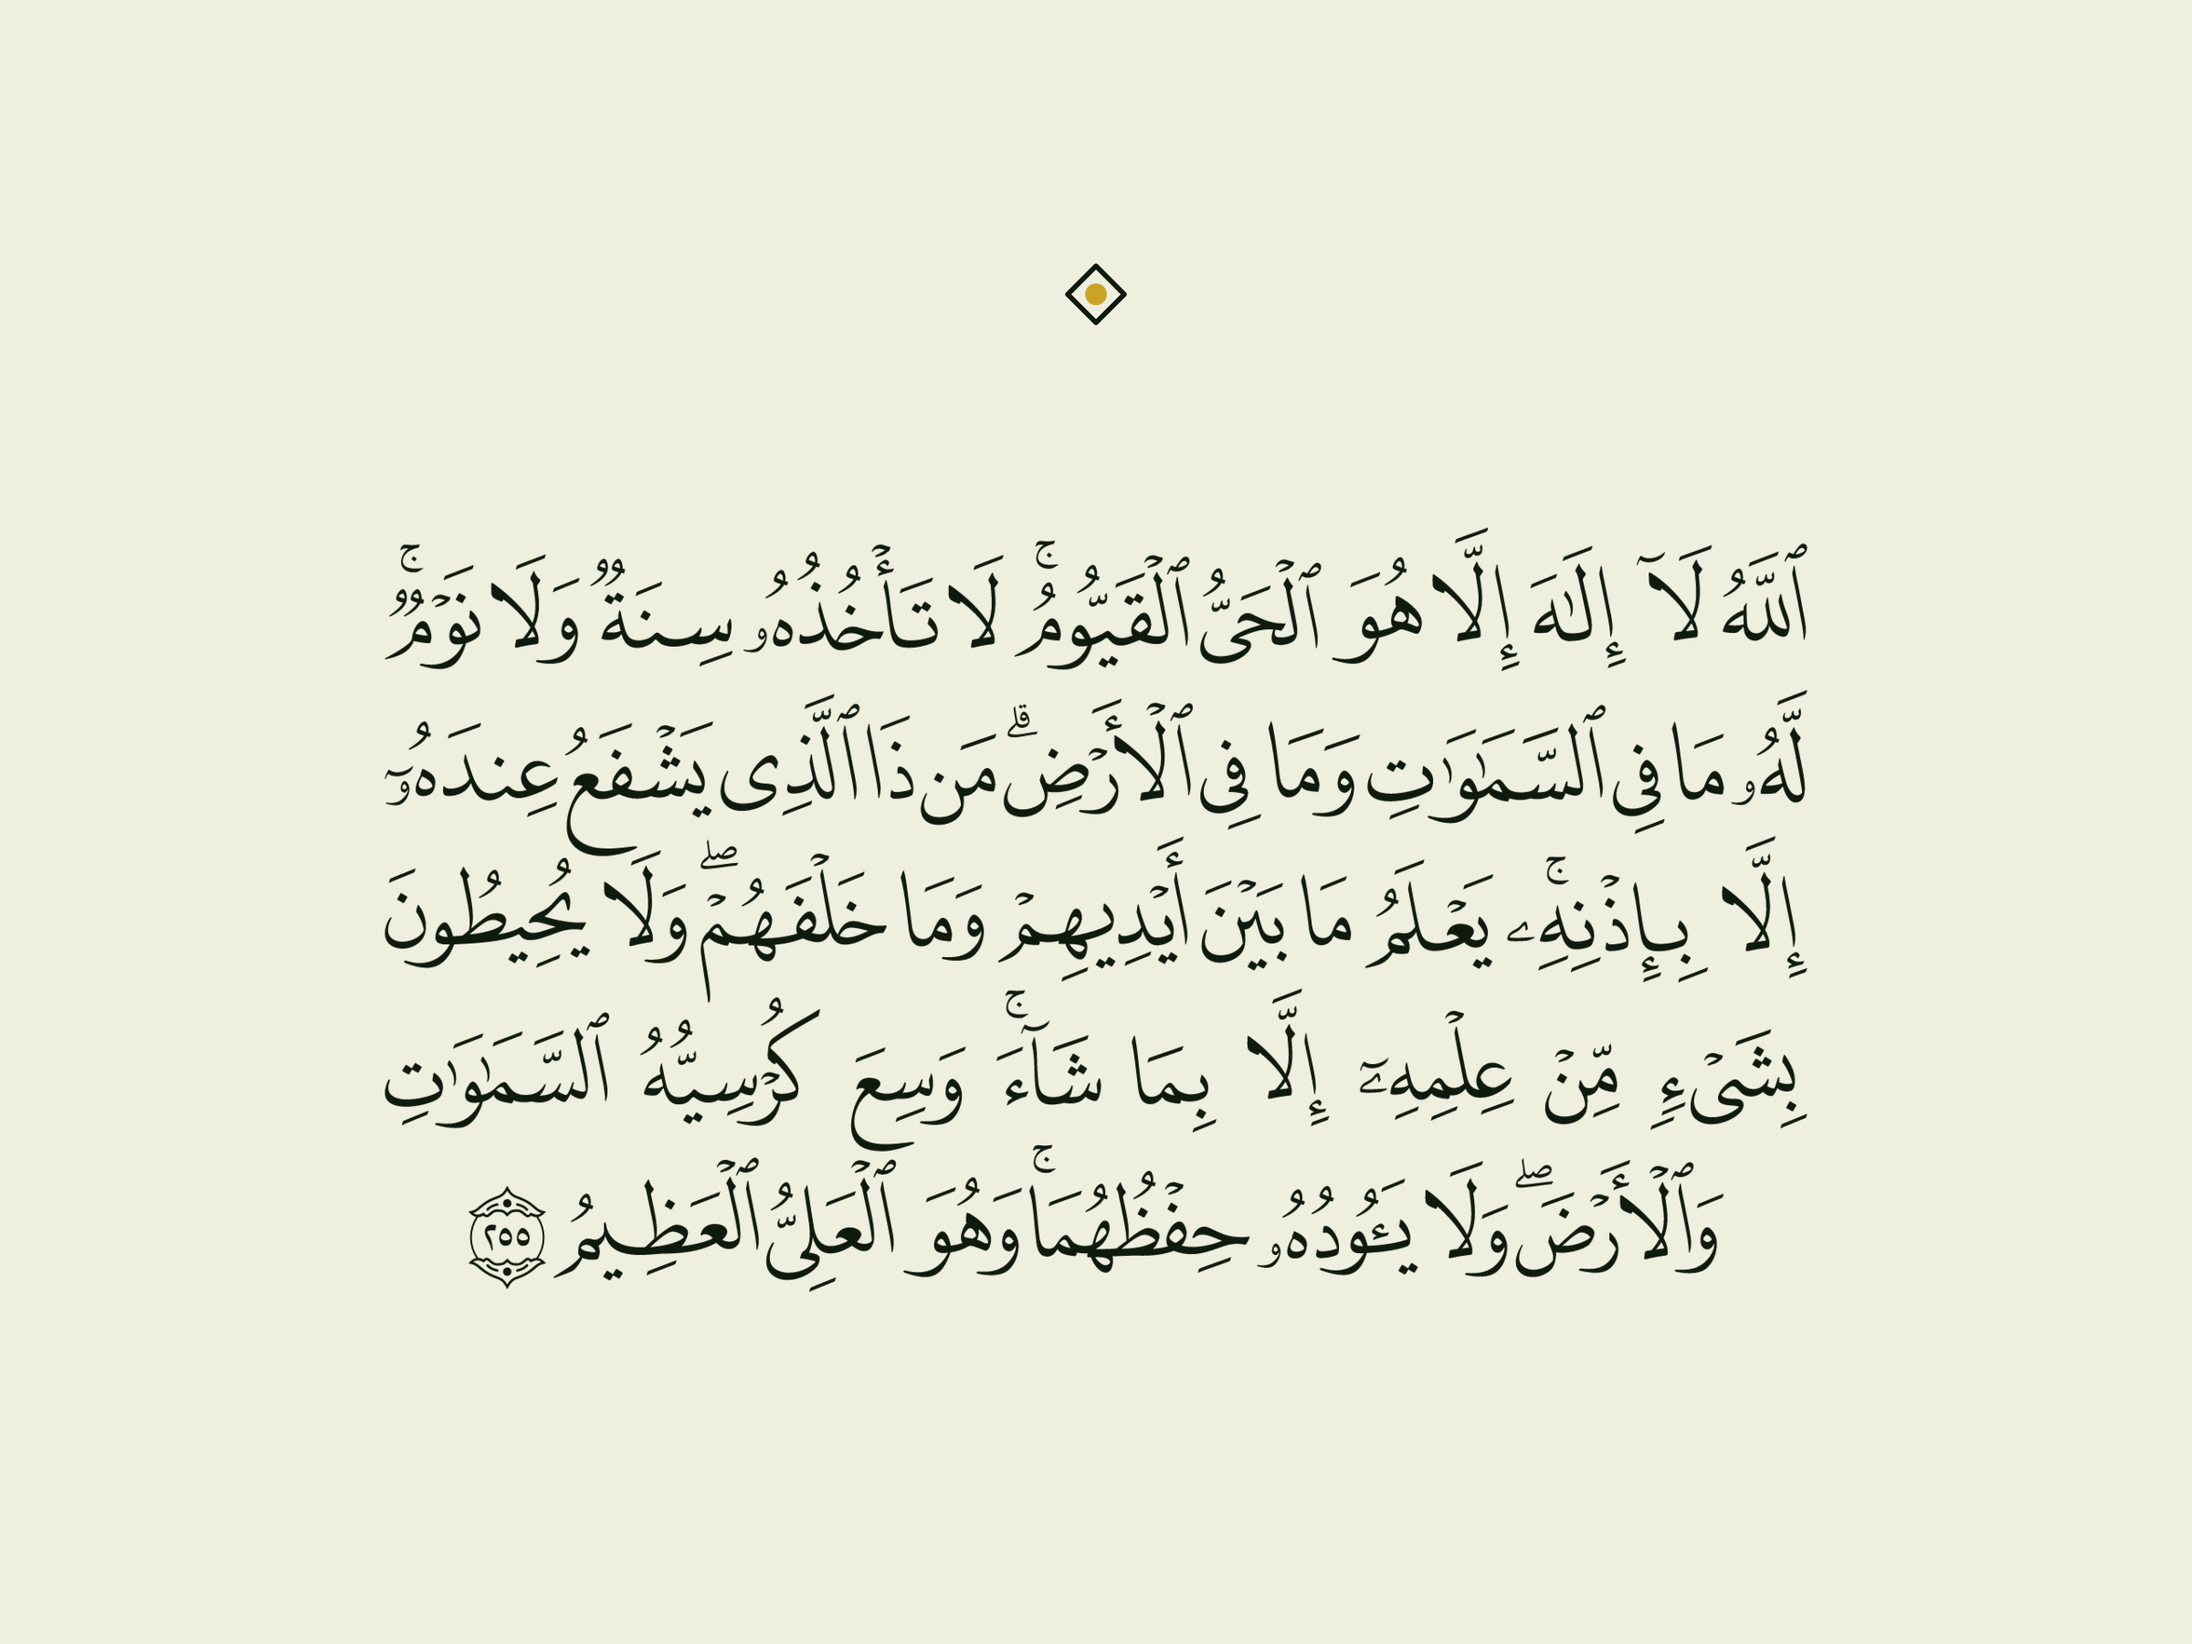
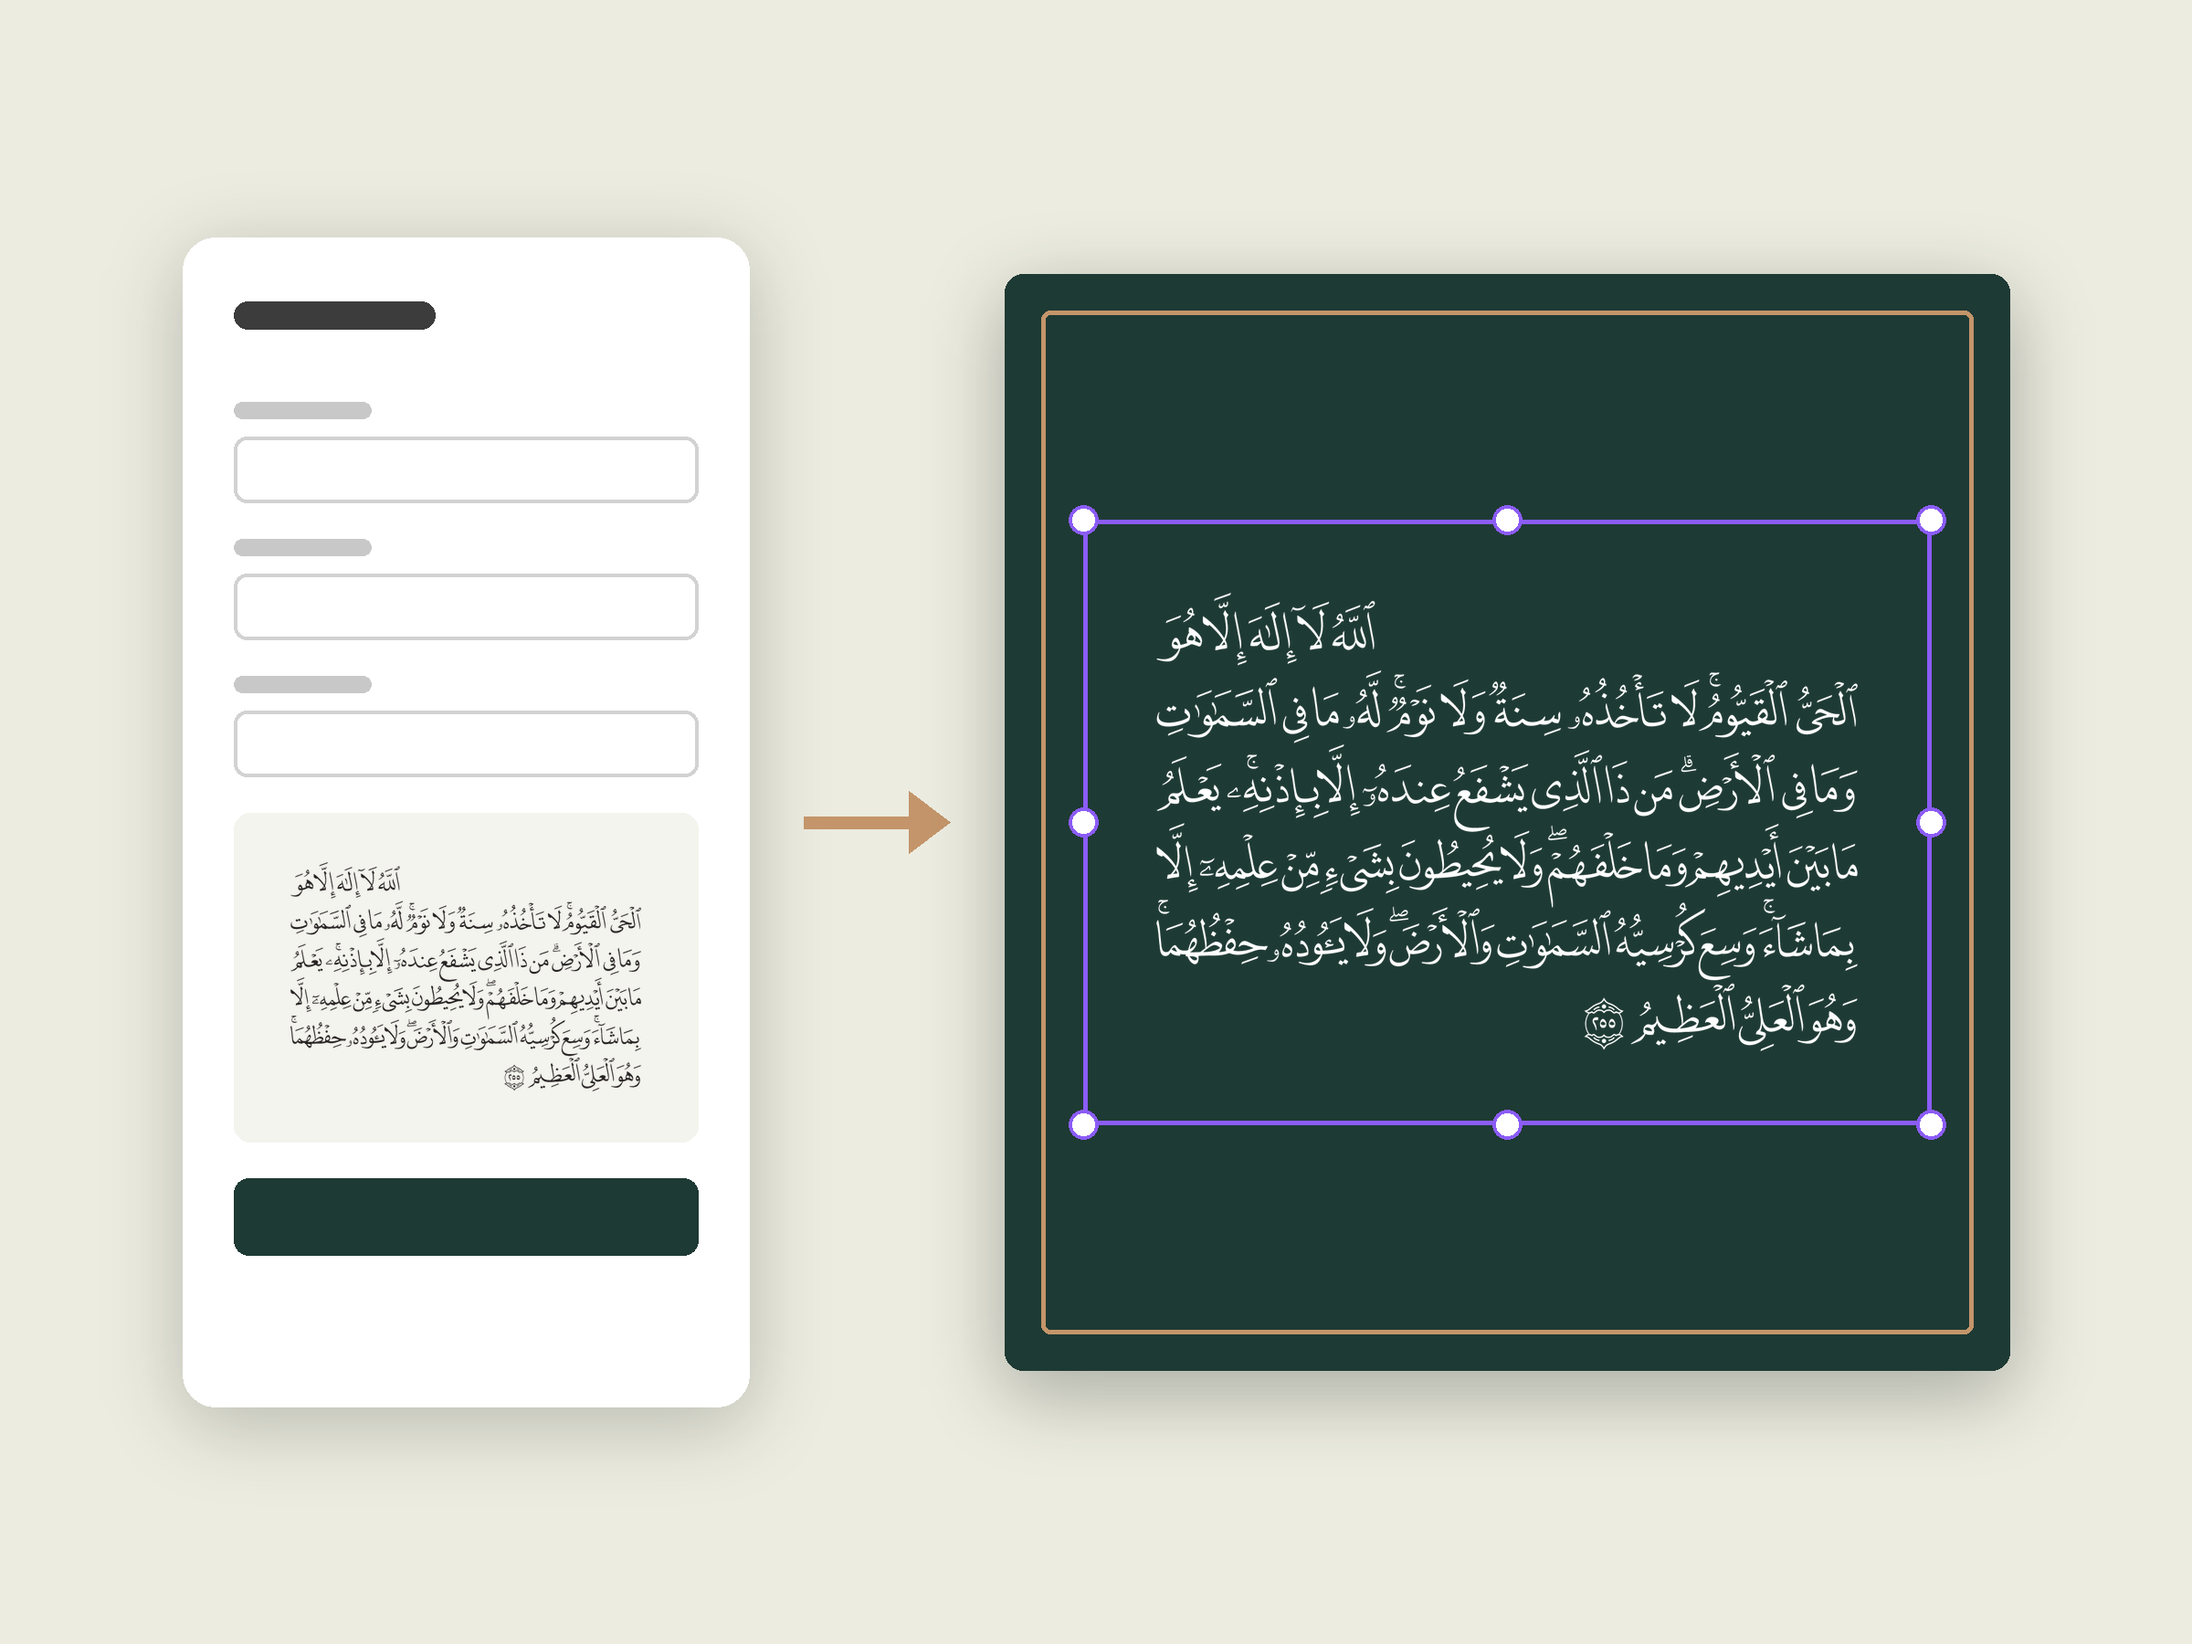
fix(canva): address Canva review feedback for version 4
- Stack From ayah and To ayah on their own lines so longer translations
  have room, and name the second field To ayah.
- Give the preview a backdrop that contrasts with the ink, so it shows in
  Canva's dark theme (and white ink shows in the light one).
- Replace the featured image with one that shows the app placing an ayah
  into a design, with no UI text to localise.

diff --git a/apps/quran-canva/src/intents/design_editor/app.tsx b/apps/quran-canva/src/intents/design_editor/app.tsx
@@ -2,8 +2,6 @@ import React, { useEffect, useMemo, useState } from 'react'
 import {
   Alert,
   Button,
-  Column,
-  Columns,
   FormField,
   ImageCard,
   NumberInput,
@@ -208,48 +206,51 @@ export const App = () => {
         )}
       />
 
-          <Columns spacing="1u">
-        <Column>
-          <FormField
-            label={intl.formatMessage({
-              defaultMessage: 'From ayah',
-              description: 'Label for the number input holding the first verse of the range.',
-            })}
-            value={from}
-            control={(props) => (
-              <NumberInput
-                {...props}
-                min={1}
-                max={current?.ayahs}
-                onChange={(v) => {
-                  const n = Number(v || 1)
-                  setFrom(n)
-                  if (n > to) setTo(n)
-                }}
-              />
-            )}
+      <FormField
+        label={intl.formatMessage({
+          defaultMessage: 'From ayah',
+          description: 'Label for the number input holding the first verse of the range.',
+        })}
+        value={from}
+        control={(props) => (
+          <NumberInput
+            {...props}
+            min={1}
+            max={current?.ayahs}
+            onChange={(v) => {
+              const n = Number(v || 1)
+              setFrom(n)
+              if (n > to) setTo(n)
+            }}
           />
-        </Column>
-        <Column>
-          <FormField
-            label={intl.formatMessage({
-              defaultMessage: 'To',
-              description: 'Label for the number input holding the last verse of the range.',
-            })}
-            value={to}
-            control={(props) => (
-              <NumberInput
-                {...props}
-                min={from}
-                max={current?.ayahs}
-                onChange={(v) => setTo(Math.max(from, Number(v || from)))}
-              />
-            )}
+        )}
+      />
+
+      <FormField
+        label={intl.formatMessage({
+          defaultMessage: 'To ayah',
+          description: 'Label for the number input holding the last verse of the range.',
+        })}
+        value={to}
+        control={(props) => (
+          <NumberInput
+            {...props}
+            min={from}
+            max={current?.ayahs}
+            onChange={(v) => setTo(Math.max(from, Number(v || from)))}
           />
-        </Column>
-      </Columns>
+        )}
+      />
 
       {!invalid && (
+        // the PNG is transparent, so it takes its backdrop from the panel: give
+        // it one that contrasts with the ink, whichever theme Canva is in
+        <div
+          style={{
+            background: color === '#ffffff' ? '#231f20' : '#f4f1e8',
+            borderRadius: 'var(--ui-kit-radius-element-standard)',
+          }}
+        >
         <ImageCard
           ariaLabel={intl.formatMessage({
             defaultMessage: 'Add the selected verses to the design',
@@ -263,6 +264,7 @@ export const App = () => {
           borderRadius="standard"
           onClick={addToDesign}
         />
+        </div>
       )}
 
       <FormField
